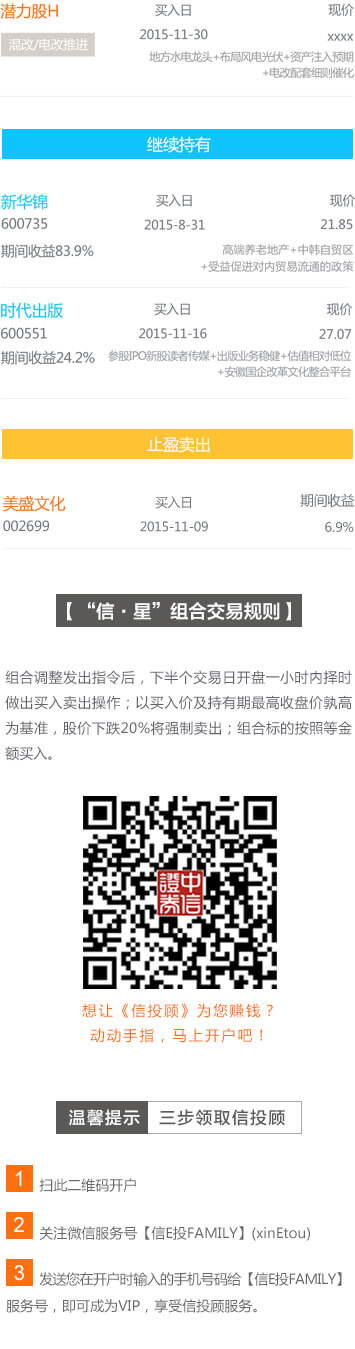
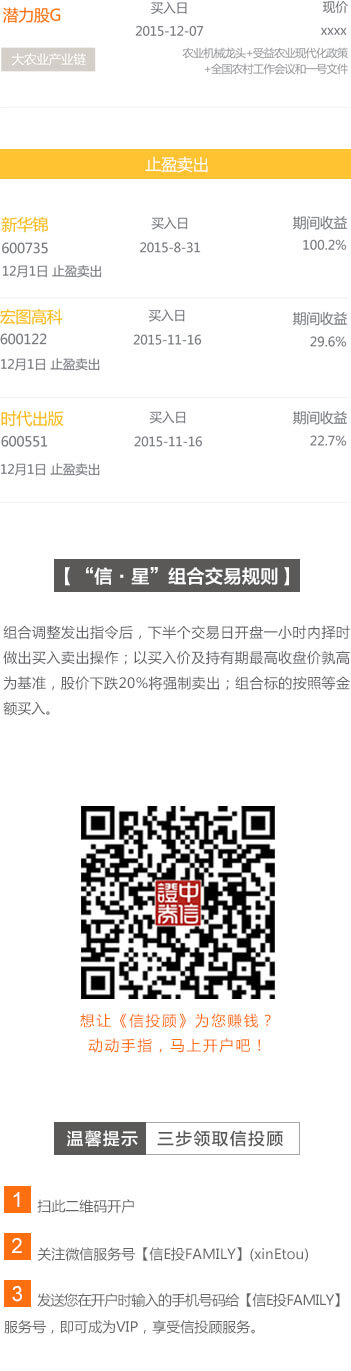
update to 2015-12-07

diff --git a/ft.html b/ft.html
@@ -31,6 +31,7 @@ body{background-color: white; font-family: "微软雅黑";}
 .tl{text-align: left;}
 .tc{text-align:center;}
 .tr{text-align: right;}
+.pl{padding-left:166px;}
 .font-32{font-size:32px;}
 .font-26{font-size:26px;}
 .font-24{font-size:24px;}
@@ -46,13 +47,13 @@ body{background-color: white; font-family: "微软雅黑";}
 .ft-xtg-pic{margin-left: 20px;}
 .ft-xtg-sub, .ft-claim-sub{color: white; line-height: 32px;}
 .ft-xtg-sub{font-size:27px; padding: 27px 0;}
-.ft-xtg-time{padding:6px 0 0 22px;}
+.ft-xtg-time{padding:6px 0 0 74px;}
 .ft-head-bg, .ft-footer{background-color: #3d3d3d;width:100%;}
 .ft-xet-opinion{color:white; height:98px; line-height:98px;}
 .ft-xet-title{font-size: 16px;color: #ff6f0f;padding-bottom:14px;}
 .ft-xet-text{font-size:14px;color:#73767b;padding-bottom:15px;}
-.ft-xet-cont{margin:50px 0 69px;}
-.ft-xet-pic-mid{margin:0 37px 0 51px;}
+.ft-xet-cont{margin:30px 0 69px;}
+.ft-xet-pic-mid{margin:0 40px 0 35px;}
 .ft-claim{background-color: #3d3d3d; color: white; font-size: 24px;line-height: 36px; padding:19px 0 24px;}
 .ft-claim-sub{line-height:36px;}
 .ft-extend{background: #ff6f0f; padding:40px 0 75px;width:100%;}
@@ -130,7 +131,7 @@ body{background-color: white; font-family: "微软雅黑";}
 	<div class="ft-wrap clear">
 		<img src="images/ft-xet-icon.png" class="fl">
 		<div class="ft-xet-opinion">
-			<p class="font-26">&nbsp;&nbsp;事件迭出<span class="font-32">博弈加强</span>&nbsp;&nbsp;捕捉主题<span class="font-32">稳妥为上</span><span class="font-19 ft-xtg-time">信&nbsp;·&nbsp;投顾【 第33期，11.30-12.6 】周观点</span>
+			<p class="font-26 pl">均衡配置<span class="font-32">&nbsp;静待重要事件落定</span><span class="font-19 ft-xtg-time">信&nbsp;·&nbsp;投顾【 第34期，12.7-12.13 】周观点</span>
 			</p>
 		</div>
 	</div>
